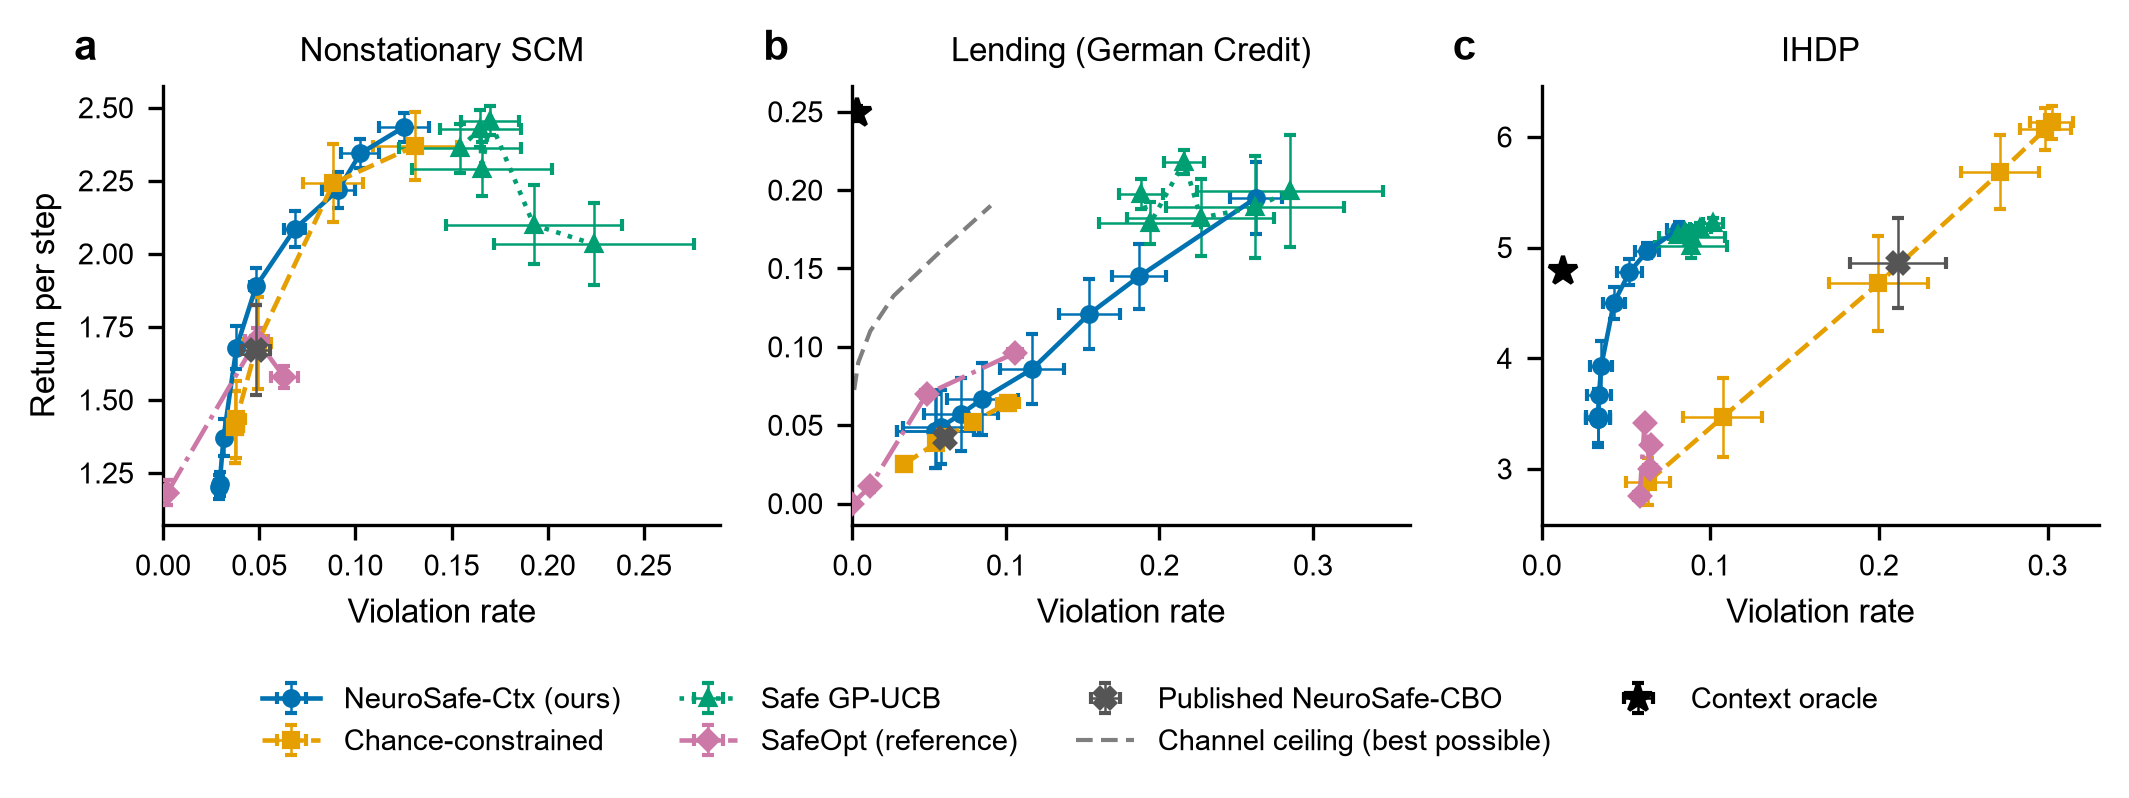
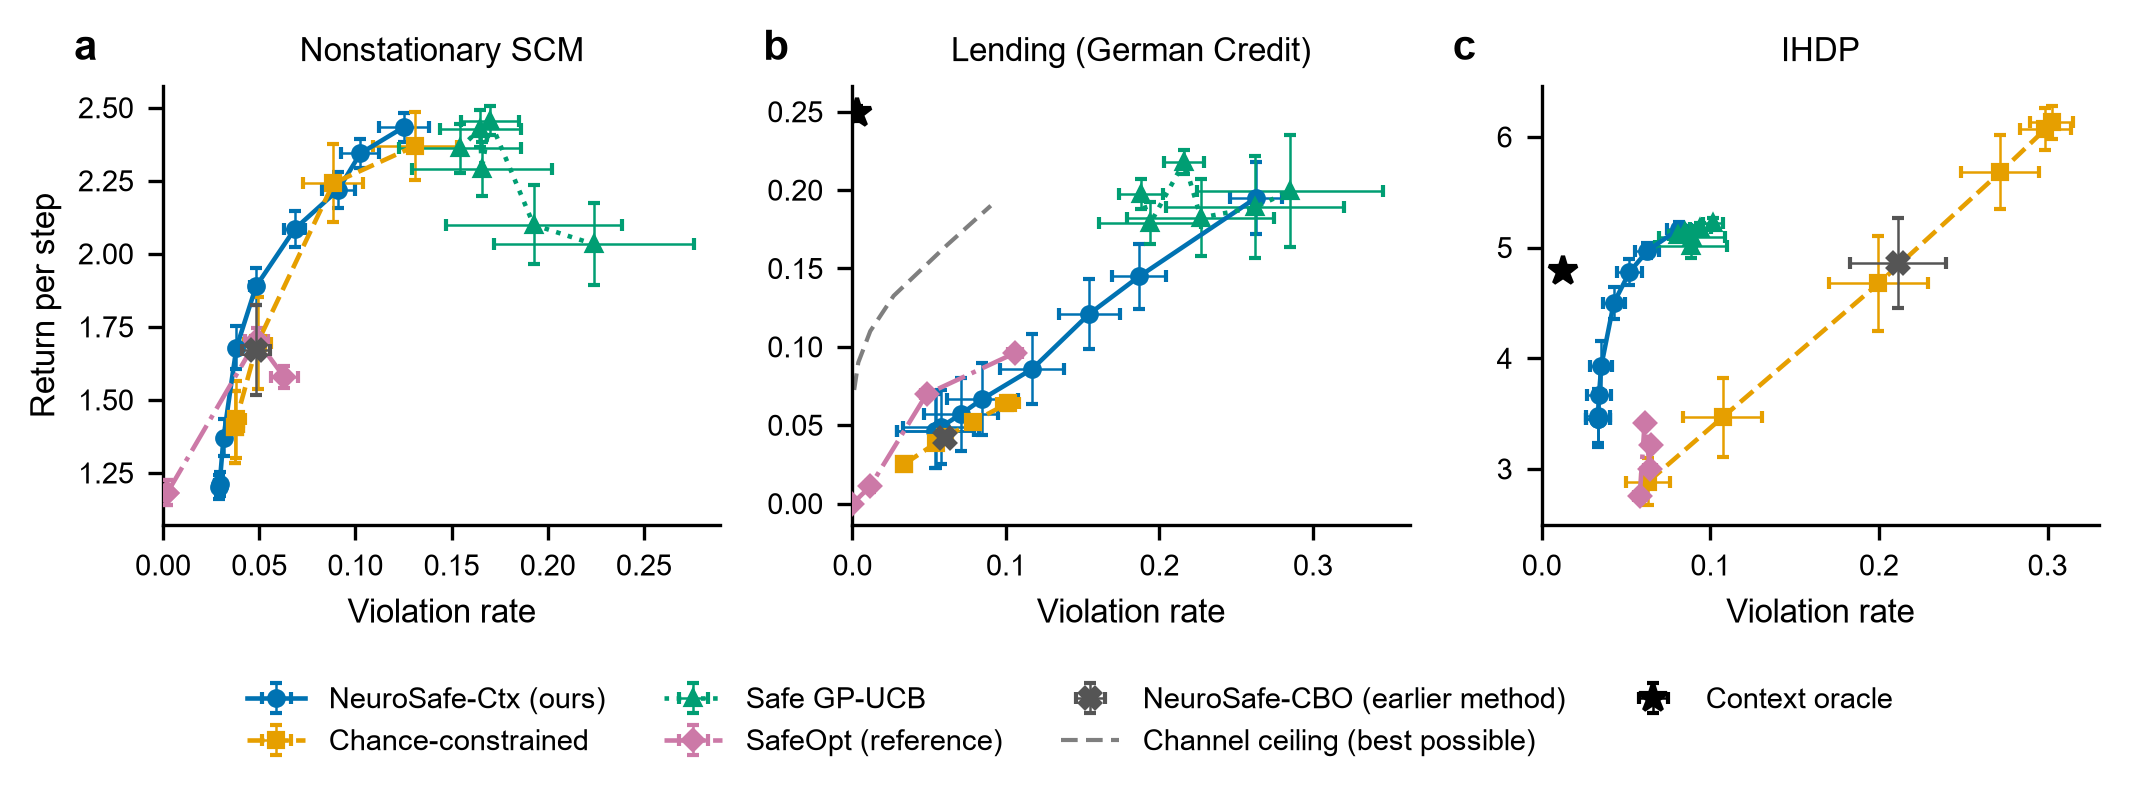
Final wording: repository link, earlier-method wording, Figure 1 gate

Changed region(s): [[0.124, 0.8421, 0.899, 0.9624]]

diff --git a/paper/v3/neurosafe_scirep.tex b/paper/v3/neurosafe_scirep.tex
@@ -23,7 +23,7 @@
 % % neurosafe_cbo/v3.py; \verify marks text the authors must supply or confirm.
 \newcommand{\verify}[1]{\textcolor{red}{#1$^{\dagger}$}}
 \newcommand{\chk}{\textcolor{red}{$^{\dagger}$}}
-\newcommand{\coderepo}{\url{https://github.com/MahmudulHasanJoy/NeuroSafe-CBO}}
+\newcommand{\coderepo}{\url{https://github.com/MahmudulHasanJoy/NeuroSafe-CBO-audit}}
 
 \title{\Large\bfseries Context-conditional feasibility improves safe sequential decisions\\ only as far as the observed context reveals harm}
 \author{Md. Mahmudul Hasan$^{1,*}$, Aurin Subah$^{1}$ and Syed Mehedi Hussain$^{1}$\\[4pt]
@@ -281,7 +281,7 @@ confidence bound on the harm probability is within the budget,
 \mathcal C_t=\Big\{a\in\mathcal A:\ \varsigma\big(\hat\theta_t^\top\varphi(a,\hat z_t)+\beta_h\|\varphi(a,\hat z_t)\|_{\Sigma_t}\big)\le\alpha\Big\},
 \label{eq:cert}
 \end{equation}
-with $\|x\|_\Sigma=\sqrt{x^\top\Sigma x}$. This replaces the published path, which estimated
+with $\|x\|_\Sigma=\sqrt{x^\top\Sigma x}$. This replaces the path of our earlier method, which estimated
 $\mathbb E[H]$ per cell and passed it through a Gaussian cumulative distribution function.
 
 \subsection*{Utility estimate}
@@ -415,9 +415,8 @@ replacements was non-empty on 0.44\% of decisions, and on held-out seeds the two
 and 1.695) and violation rates (0.048 and 0.049) coincide; no number of seeds can separate agents that
 act identically on 99.6\% of decisions. The context module also carried almost no context: under a
 single declared protocol (decoupled SCM, 30 seeds of 400 steps, uniform actions, absolute Pearson
-correlation with the latent confounder) the raw context observation scores 0.930, the published
-predictive-coding latent 0.013, and a Kalman filter 0.929, so the deficit was in the implementation,
-not the premise. Finally, the published update fitted the utility and harm models at both $(a,z_t)$
+correlation with the latent confounder) the raw context observation scores 0.930, our earlier predictive-coding latent 0.013, and a Kalman filter 0.929, so the deficit was in the implementation,
+not the premise. Finally, our earlier update fitted the utility and harm models at both $(a,z_t)$
 and $(a,0)$ with the same target, which teaches $f(a,z)=f(a,0)$, that is, to ignore context. For any
 method defined as an improvement operator over a reference policy, the operator's activation rate
 therefore belongs in the results table.

diff --git a/experiments/final_text_fixes.py b/experiments/final_text_fixes.py
@@ -1,0 +1,18 @@
+import re
+def fix(path, pairs):
+    s = open(path, encoding="utf-8").read()
+    for old, new in pairs:
+        p = re.compile(r"\s+".join(re.escape(w) for w in old.split()))
+        n = len(p.findall(s)); s = p.sub(lambda m: new, s)
+        print(f"{'fixed  ' if n else 'already'} {path}: {old[:55]}")
+    open(path, "w", encoding="utf-8").write(s)
+fix("paper/v3/neurosafe_scirep.tex", [
+    (r"\newcommand{\coderepo}{\url{https://github.com/MahmudulHasanJoy/NeuroSafe-CBO}}",
+     r"\newcommand{\coderepo}{\url{https://github.com/MahmudulHasanJoy/NeuroSafe-CBO-audit}}"),
+    ("This replaces the published path,", "This replaces the path of our earlier method,"),
+    ("the published predictive-coding latent", "our earlier predictive-coding latent"),
+    ("the published update fitted", "our earlier update fitted")])
+fix("paper/v3/figures/fig_overview.tex", [
+    ("A pre-registered gate requires", "A gate specified in advance requires"),
+    ("compare with Chance, SafeOpt, safe GP-UCB and an oracle.", "compare with Chance, SafeOpt, safe GP-UCB, Safe UCB-GLM and an oracle.")])
+fix("experiments/make_fig_domains.py", [('"Published NeuroSafe-CBO"', '"NeuroSafe-CBO (earlier method)"')])

diff --git a/paper/v3/figures/fig_overview.tex b/paper/v3/figures/fig_overview.tex
@@ -31,7 +31,7 @@
 % ---------- column 3: evaluation
 \node[ev, right=14mm of kf.north east, anchor=north west] (sweep) {\textbf{Frontier sweeps}\\ Each method's own safety knob is swept; return against violation (Fig.~2).};
 \node[ev, below=of sweep] (match) {\textbf{Matched paired tests}\\ Operating points fixed on tuning seeds 0--9, tested on held-out seeds 100--149.};
-\node[ev, below=of match] (abl) {\textbf{Ablations and baselines}\\ Remove context, GLM, buckets or filter; compare with Chance, SafeOpt, safe GP-UCB and an oracle.};
+\node[ev, below=of match] (abl) {\textbf{Ablations and baselines}\\ Remove context, GLM, buckets or filter; compare with Chance, SafeOpt, safe GP-UCB, Safe UCB-GLM and an oracle.};
 \begin{scope}[on background layer]
 \node[draw=black!40, dashed, rounded corners=3pt, fit=(sweep)(match)(abl), inner sep=2.5mm] (evalbox) {};
 \end{scope}

diff --git a/experiments/make_fig_domains.py b/experiments/make_fig_domains.py
@@ -20,7 +20,7 @@ STYLE = {  # agent -> (label, colour, marker, linestyle); colour-blind-safe, als
     "SafeGP": ("Safe GP-UCB", "#009E73", "^", ":"),
     "SafeOpt-ref": ("SafeOpt (reference)", "#CC79A7", "D", "-."),
 }
-POINTS = {"NeuroSafeCBO": ("Published NeuroSafe-CBO", "#555555", "X"), "Oracle": ("Context oracle", "#000000", "*")}
+POINTS = {"NeuroSafeCBO": ("NeuroSafe-CBO (earlier method)", "#555555", "X"), "Oracle": ("Context oracle", "#000000", "*")}
 # Lending channel ceiling: output of experiments/channel_ceiling.py in the regenerated environment
 # (alpha: return, violation). Update if that script is rerun.
 CEILING = [(0.0725, 0.0011), (0.0900, 0.0038), (0.1100, 0.0116), (0.1325, 0.0268), (0.1650, 0.0617), (0.1900, 0.0901)]
